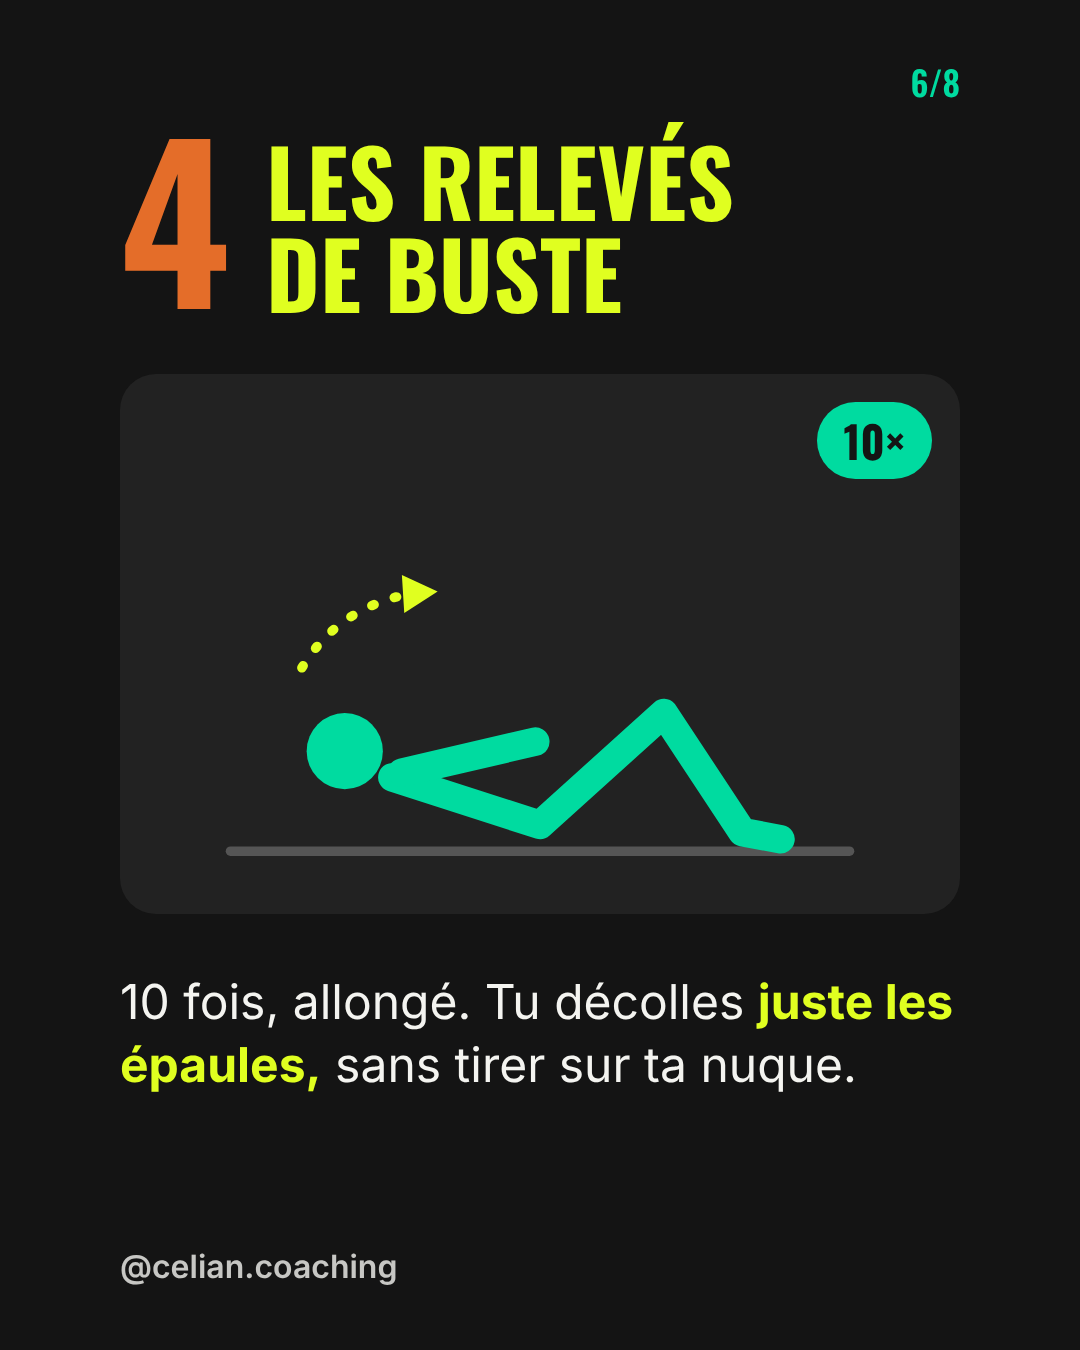
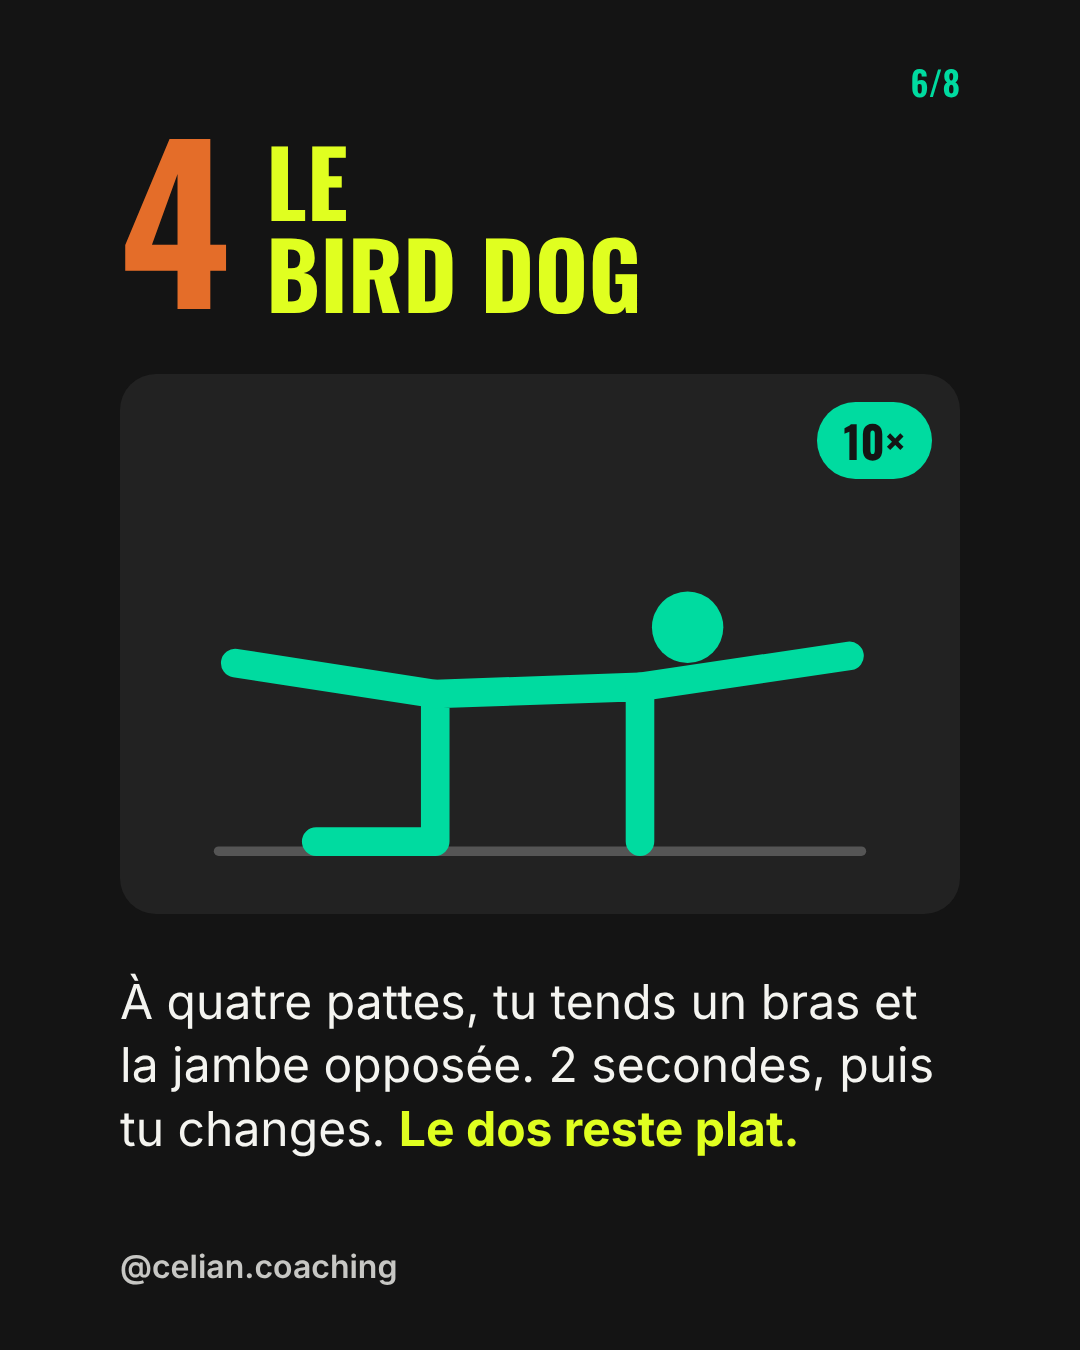
Carousel 01: bird dog instead of crunches, cover without age
Claude-Session: https://claude.ai/code/session_01FGhLFD9YEZFa3cBNhyiNyx

Changed region(s): [[0.0917, 0.7156, 0.8861, 0.8711], [0.1833, 0.4044, 0.7944, 0.6533], [0.275, 0.0933, 0.6722, 0.2489]]

diff --git a/.claude/instagram/carrousels/01-4-mouvements/slides.html b/.claude/instagram/carrousels/01-4-mouvements/slides.html
@@ -39,7 +39,7 @@
 
   /* 1 couverture */
   .cover { justify-content: center; }
-  .cover h1 { font-size: 150px; line-height: 1.04; font-weight: 700; letter-spacing: -1px; }
+  .cover h1 { font-size: 138px; line-height: 1.04; font-weight: 700; letter-spacing: -1px; }
   .cover h1 .bloc { display: inline-block; margin-top: 14px; background: var(--noir); color: var(--citron); padding: 4px 22px 10px; }
   .cover p { font-size: 50px; font-weight: 600; margin-top: 56px; line-height: 1.25; }
   .cover .fleche {
@@ -108,7 +108,7 @@
 <!-- 1 COUVERTURE -->
 <section class="citron cover">
   <span class="count">1/8</span>
-  <h1>Par où<br>commencer<br><span class="bloc">à 45 ans ?</span></h1>
+  <h1>Par où<br>commencer<br><span class="bloc">facilement&nbsp;?</span></h1>
   <p>4 mouvements, chez toi,<br>sans matériel.</p>
   <div class="fleche"><span>→</span>Fais glisser</div>
   <span class="handle">@celian.coaching</span>
@@ -181,22 +181,21 @@
   <span class="handle">@celian.coaching</span>
 </section>
 
-<!-- 6 RELEVÉS DE BUSTE -->
+<!-- 6 BIRD DOG -->
 <section class="sombre mvt">
   <span class="count">6/8</span>
-  <div class="tete"><span class="num">4</span><h2>Les relevés<br>de buste</h2></div>
+  <div class="tete"><span class="num">4</span><h2>Le<br>bird dog</h2></div>
   <div class="illu">
     <span class="pill">10×</span>
     <svg viewBox="0 0 600 420" aria-hidden="true">
-      <line class="sol" x1="40" y1="384" x2="560" y2="384"/>
-      <path class="corps" d="M176 322 L300 362 L404 268 L470 368 L502 374"/>
-      <path class="corps" d="M184 318 L296 292"/>
-      <circle class="tetec" cx="136" cy="300" r="32"/>
-      <path class="fleche-mvt" d="M100 230 Q 130 180 190 168"/>
-      <path class="pointe" d="M184 152 L214 166 L186 184 Z"/>
+      <line class="sol" x1="30" y1="384" x2="570" y2="384"/>
+      <path class="corps" d="M112 376 L212 376 L212 252 L384 246 L384 376"/>
+      <path class="corps" d="M212 252 L44 226"/>
+      <path class="corps" d="M384 246 L560 220"/>
+      <circle class="tetec" cx="424" cy="196" r="30"/>
     </svg>
   </div>
-  <p>10 fois, allongé. Tu décolles <strong>juste les épaules,</strong> sans tirer sur ta nuque.</p>
+  <p>À quatre pattes, tu tends un bras et la jambe opposée. 2 secondes, puis tu changes. <strong>Le dos reste plat.</strong></p>
   <span class="handle">@celian.coaching</span>
 </section>
 
@@ -208,7 +207,7 @@
     <li><span class="rond">1</span>Squat sur chaise<em>10×</em></li>
     <li><span class="rond">2</span>Pompes au mur<em>10×</em></li>
     <li><span class="rond">3</span>Gainage<em>20 s</em></li>
-    <li><span class="rond">4</span>Relevés de buste<em>10×</em></li>
+    <li><span class="rond">4</span>Bird dog<em>10×</em></li>
   </ol>
   <div class="bar">3 tours · 2 à 3 fois par semaine</div>
   <span class="handle">@celian.coaching</span>

diff --git a/.claude/instagram/carrousels/01-4-mouvements/README.md b/.claude/instagram/carrousels/01-4-mouvements/README.md
@@ -1,18 +1,18 @@
-# Carrousel 01 : par où commencer à 45 ans (4 mouvements)
+# Carrousel 01 : par où commencer facilement (4 mouvements)
 
 Statut : images faites le 2026-10-26, à poster. Couleurs : ../../charte.md.
 Images : slide-1.png à slide-8.png (1080×1350). Source : slides.html.
 
-Texte alternatif de la couverture : Carrousel de Célian, coach sportif à domicile à Lyon : 4 mouvements sans matériel pour commencer le sport à 45 ans.
+Texte alternatif de la couverture : Carrousel de Célian, coach sportif à domicile à Lyon : 4 mouvements sans matériel pour commencer le sport facilement.
 
 ## Légende
 
 ```
-4 mouvements pour reprendre le sport à 45 ans, chez toi, sans matériel. Le 3e protège ta colonne.
+4 mouvements pour reprendre le sport facilement, chez toi, sans matériel. Le 3e protège ta colonne.
 
 Quand tu reprends, tu cherches souvent le programme parfait. Commence plutôt par des gestes simples que ton corps connaît déjà.
 
-Squat sur chaise, pompes contre le mur, gainage, relevés de buste. C'est tout. Tu fais 3 tours, 2 à 3 fois par semaine, et ton corps s'habitue à bouger, à ton rythme.
+Squat sur chaise, pompes contre le mur, gainage, bird dog. C'est tout. Tu fais 3 tours, 2 à 3 fois par semaine, et ton corps s'habitue à bouger, à ton rythme.
 
 Trop dur ? Tu passes sur les genoux. L'idée, c'est de prendre du plaisir et d'éviter de te blesser.
 
@@ -20,5 +20,5 @@ J'suis Célian, coach sportif à domicile à Lyon. J'adapte tes séances à ton 
 
 Enregistre ce post pour ta prochaine séance.
 
-#coachsportiflyon #sportapres45ans #coachingadomicile
+#coachsportiflyon #sportadomicile #coachingadomicile
 ```

diff --git a/.claude/instagram/log.md b/.claude/instagram/log.md
@@ -14,4 +14,4 @@
 - 2026-10-13 · reel · #22 Contrarian Flip · "Les petits poids suffisent plus." · reels/13-charges-lourdes.md
 - 2026-10-13 · reel · #22 Contrarian Flip · "Le problème, c'est peut-être ta nuit." · reels/14-sommeil-faim.md
 - 2026-10-13 · reel · #20 Permission · "T'as pas besoin de « tonifier »." · reels/15-tonus-existe-pas.md
-- 2026-10-26 · carrousel · 8 slides · "Par où commencer à 45 ans ?" · carrousels/01-4-mouvements/
+- 2026-10-26 · carrousel · 8 slides · "Par où commencer facilement ?" · carrousels/01-4-mouvements/

diff --git a/.claude/instagram/suivi.md b/.claude/instagram/suivi.md
@@ -26,4 +26,4 @@ Statuts : à tourner → tourné → posté. Mis à jour par Claude quand Célia
 
 | N° | Carrousel | Statut | Date | Dossier |
 |---|---|---|---|---|
-| C1 | Par où commencer à 45 ans : 4 mouvements | images faites, à poster | 2026-10-26 | carrousels/01-4-mouvements/ |
+| C1 | Par où commencer facilement : 4 mouvements | images faites, à poster | 2026-10-26 | carrousels/01-4-mouvements/ |
